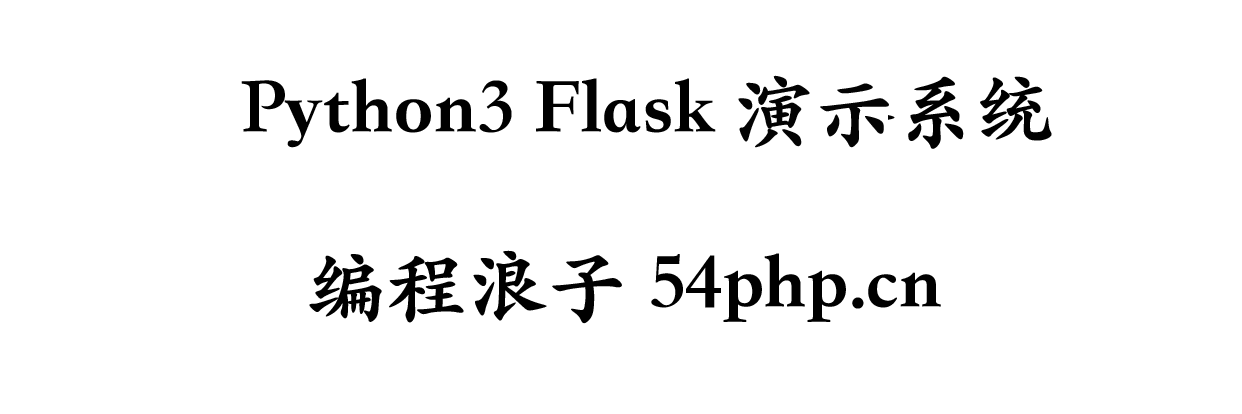
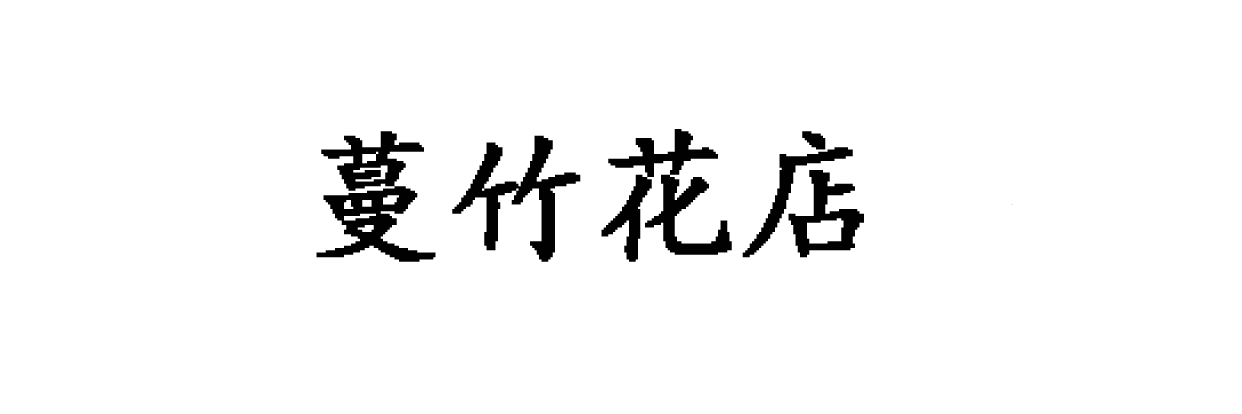
[feature] change UI

Changed region(s): [[0.1836, 0.1739, 0.8567, 0.7826]]

diff --git a/app.js b/app.js
@@ -5,7 +5,7 @@ App({
     globalData: {
         userInfo: null,
         version: "1.0",
-        shopName: "Python3 + Flask 订餐全栈系统",
+        shopName: "蔓竹花店",
         domain:"http://8.140.196.190:5001/api"
     },
     tip:function( params ){
